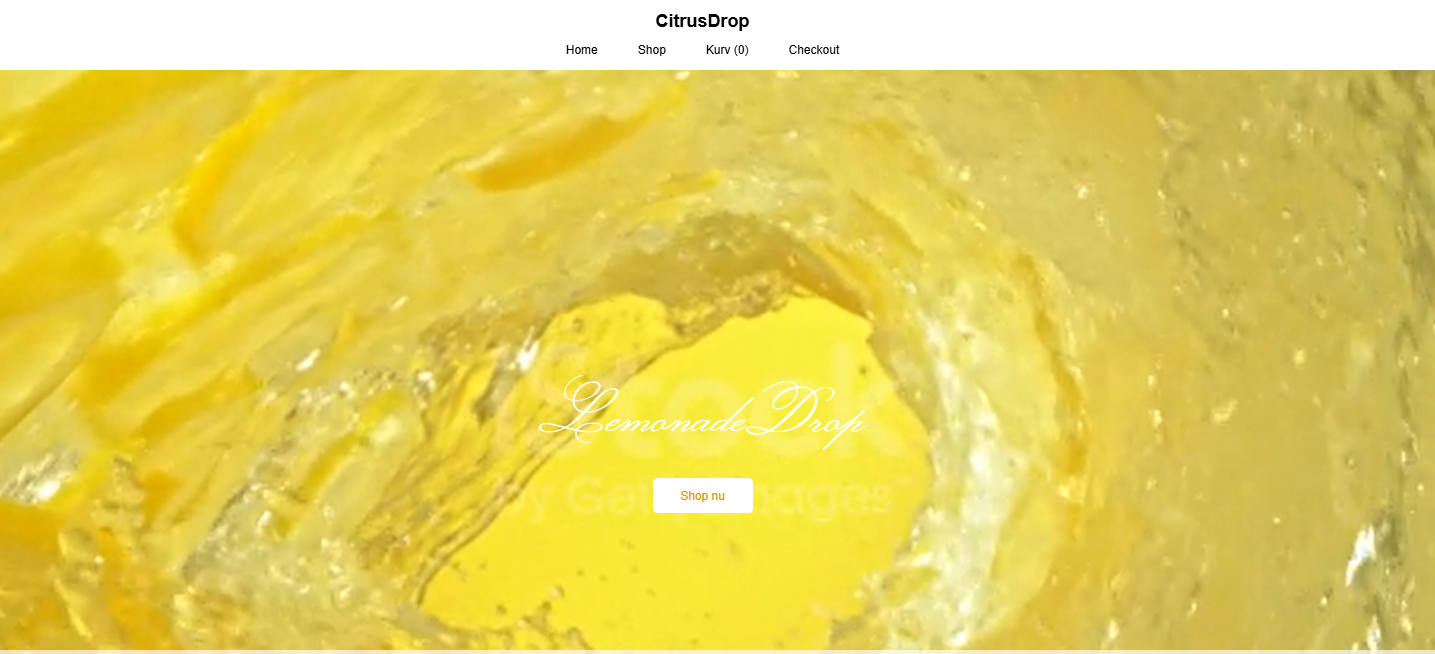
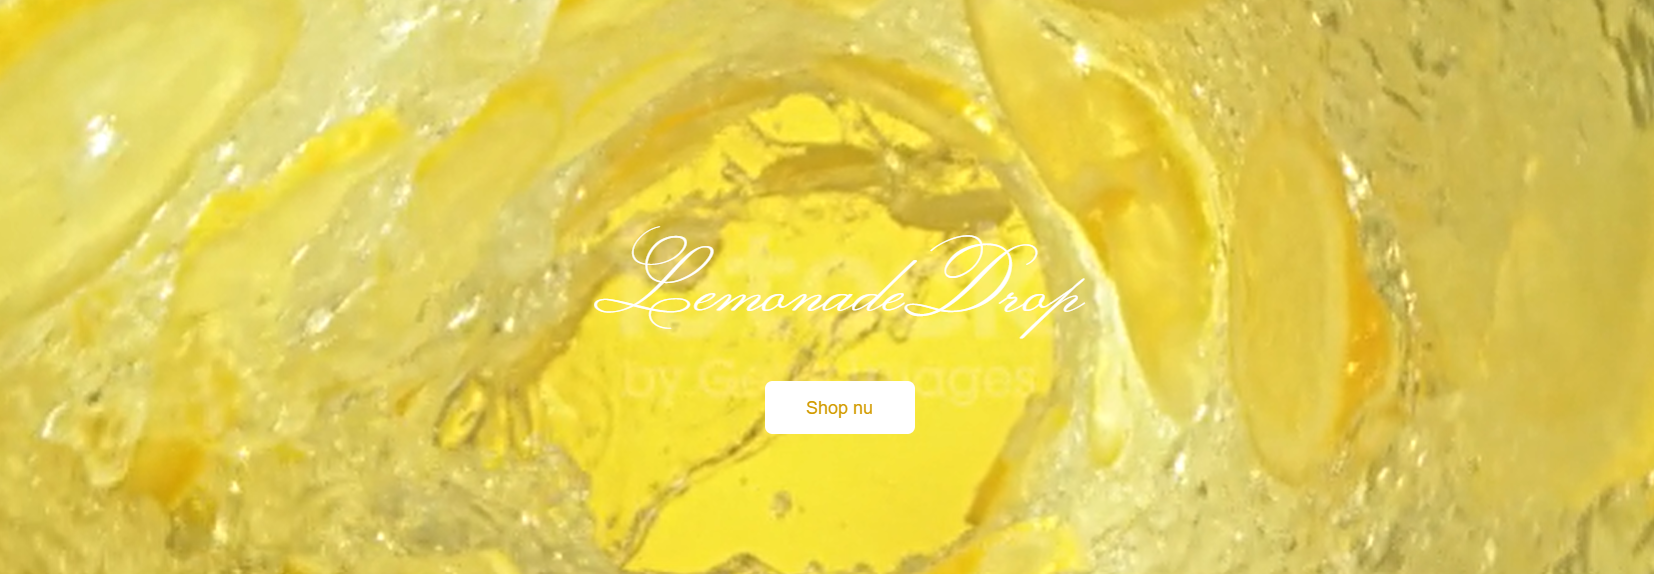
fixed hero-baggrund

diff --git a/index.html b/index.html
@@ -7,33 +7,86 @@
 
     <link rel="stylesheet" href="https://cdn.jsdelivr.net/npm/bootstrap-icons@1.11.3/font/bootstrap-icons.css">
     <link href="https://cdn.jsdelivr.net/npm/bootstrap@5.3.0/dist/css/bootstrap.min.css" rel="stylesheet">
-    <link rel="stylesheet" href="css/custom.css">
     <link rel="stylesheet" href="https://cdnjs.cloudflare.com/ajax/libs/animate.css/4.1.1/animate.min.css" />
+    <link rel="stylesheet" href="css/custom.css">
 
     <style>
-        /* Din styling bevares 100% */
-        .more-text {
-            display: none; /* VIGTIGT: Dette fjerner højden fra start */
-        }
-        
-        .card {
-            border-radius: 0px;
-            transition: all 0.3s ease; /* Gør udvidelsen blødere */
-        }
+      header{
+        z-index: 1;
+      }
+        /* section .lottie {
+  width: 100%;
+  height:100%;
+  background-color: red;
+  z-index: 0;
+  position: absolute;
+  top:-20;
+  padding: 0;
+  margin: 0;
+  overflow-x: hidden;
+display: flex;
+justify-content: center;
+}
+.animation-lottie{
+  width: 150%;
+  margin: 0;
+  padding: 0;
+  position: absolute;
+  
+
+} */
+ .section
+  { z-index: 0;
+  position: relative;
+  overflow: hidden; }
+ .section>div {
+  z-index: 1;
+  justify-content: center;
+}
+.animation-lottie {
+  position: absolute;
+  inset: 0;
+  width: 100%;
+  height: 160%;
+  z-index: 0;
+  pointer-events: none;
+  top:-20%
+}
+#ommig{z-index: 0;
+  position: relative;
+  overflow: hidden;}
+  #ommig>div{
+     z-index: 1;
+  justify-content: center;
+  }
+.animation-lottie-2{
+   position: absolute;
+  inset: 0;
+  width: 100%;
+  height: 140%;
+  z-index: -1;
+  pointer-events: none;
+  top:-30%
+}
+
     </style>
 </head> 
 <body>
     <header class="bg-primary">
         <ul class="nav justify-content-end p-3 ">
-            <li class="nav-item"><a class="nav-link active text-light" href="#">Active</a></li>
             <li class="nav-item"><a class="nav-link text-light" href="index.html#projekter">Projekter</a></li>
+            <li class="nav-item"><a class="nav-link text-light" href="index.html#ommig">om mig</a></li>
+             <li class="nav-item"><a class="nav-link active text-light" href="index.html#kontakt">Kontakt mig</a></li>
             <li class="nav-item"><a class="nav-link text-light" href="https://github.com/sofieroshni"><i class="bi bi-github"></i></a></li>
-            <li class="nav-item"><a class="nav-link text-light" href="#ommig">om mig</a></li>
         </ul>
     </header>
 
     <main>
-        <section class="bg-light pt-5">
+        <section class="bg-light pt-5 hero  ">
+<!-- <iframe  class="test"src="https://lottie.host/embed/e2e6432e-25c6-4590-8484-a61aeda8f9d5/ePERhcIHOK.json"></iframe> -->
+<script src="https://unpkg.com/@lottiefiles/dotlottie-wc@0.9.10/dist/dotlottie-wc.js" type="module"></script>
+<dotlottie-wc src="https://lottie.host/b93a756d-257d-451a-ae9c-44cb5e831901/23Vjh6sTP9.lottie"  speed="0.5" autoplay loop class="animation-lottie "></dotlottie-wc>
+          </div>
             <div class="container text-center">
                 <div class="row align-items-center flex-column-reverse flex-md-row">         
                     <div class="col-md-6 text-center text-lg-start text-dark">
@@ -88,6 +141,7 @@
 
                     <!-- Projekt 3 -->
                     <div class="col-12 col-md-4 col-lg-3">
+                        <a href="https://lemonade-app-vercel.vercel.app//">
                         <div class="card bg-light shadow-sm">
                             <img src="assets/img/lemonadeapp.png" class="card-img-top img-fluid" alt="...">
                             <div class="card-body">
@@ -96,8 +150,8 @@
                                     Udviklet som en teknisk øvelse i Redux state management...<span class="dots">...</span><span class="more-text"> Fokus lå på React-logik og state-håndtering.</span>
                                 </p>
                                 <button onclick="showMore(this)" class="btn btn-link p-0 text-start fw-bold mb-3" style="text-decoration: none;">Læs mere</button>
-                                <a href="https://lemonade-app-vercel.vercel.app//" class="btn btn-primary btn-sm w-100">Besøg side</a>
                             </div>
+                            </a>
                         </div>
                     </div>
 
@@ -109,6 +163,9 @@
         </section>
              
 <section id="ommig" class="py-5 bg-light py-5 animate__animated  animate__fadeIn animate__slow animate__delay-6s">
+  <script src="https://unpkg.com/@lottiefiles/dotlottie-wc@0.9.10/dist/dotlottie-wc.js" type="module"></script>
+<dotlottie-wc src="https://lottie.host/b93a756d-257d-451a-ae9c-44cb5e831901/23Vjh6sTP9.lottie"  speed="0.5" autoplay loop class="animation-lottie-2 "></dotlottie-wc>
+ 
     <div class="container">
         <div class="row align-items-center g-4">
             <div class="col-lg-5 text-center">
@@ -117,7 +174,7 @@
             </div>
 
             <div class="col-lg-7">
-                <h2 class="mb-3" style="font-weight: 800; color: #38000E;">Om Mig</h2>
+                    <div class="col text-start text-dark"><h2>Om Mig</h2></div>
                 
                 <p class="fs-5 text-dark mb-3" >
                     Jeg er <strong>Sofie Vedel</strong>, en passioneret webudvikler fra Roskilde. 
@@ -135,19 +192,22 @@
                 <div class="mb-4">
                     <h5 class="mb-3 text-dark">Mine fokusområder:</h5>
                     <div class="d-flex flex-wrap gap-2">
-                        <span class="badge bg-secondary fs-6 px-3 py-2">React & Next.js</span>
+                        <span class="badge bg-white text-dark fs-6 px-3 py-2">React & Next.js</span>
+                        <span class="badge bg-secondary fs-6 px-3 py-2">Lootie animation</span>
+
                         <span class="badge bg-secondary fs-6 px-3 py-2">WordPress</span>
                         <span class="badge bg-secondary fs-6 px-3 py-2">PHP & Laravel</span>
                         <span class="badge bg-secondary fs-6 px-3 py-2">UI/UX Design</span>
                         <span class="badge bg-secondary fs-6 px-3 py-2">SEO Optimering</span>
                     </div>
                 </div>
+             
 
                 <!-- Call to action -->
                 <div class="d-flex gap-3 flex-wrap">
-                    <a href="mailto:sofie.roshni@gmail.com" class="btn btn-primary btn-lg">
+                    <!-- <a href="mailto:sofie.roshni@gmail.com" class="btn btn-primary btn-lg">
                         <i class="bi bi-envelope"></i> Kontakt Mig
-                    </a>
+                    </a> -->
                     <a href="https://github.com/sofieroshni" class="btn btn-outline-primary btn-lg">
                         <i class="bi bi-github"></i> GitHub
                     </a>
@@ -172,29 +232,21 @@
         </div>
     </div>
 </section>
-        <section id="projekter" class="py-5 animate__animated animate__fadeIn animate__slow animate__delay-5s">
+       <section id="projekter" class="py-5 animate__animated animate__fadeIn animate__slow animate__delay-5s align-center">
 
-          <form>
-  <div class="form-group">
+<form class="col-12 d-flex flex-column align-items-center">
+  <div class="form-group col-4 text-start">
     <label for="exampleFormControlInput1">Email address</label>
     <input type="email" class="form-control" id="exampleFormControlInput1" placeholder="name@example.com">
-  </div>
-  <div class="form-group">
-    <label for="exampleFormControlSelect1">Example select</label>
-    <select class="form-control" id="exampleFormControlSelect1">
-      <option>1</option>
-      <option>2</option>
-      <option>3</option>
-      <option>4</option>
-      <option>5</option>
-    </select>
-  </div>
-  
-  <div class="form-group">
+  </div>  
+  <div class="form-group col-4 text-start">
     <label for="exampleFormControlTextarea1">Example textarea</label>
     <textarea class="form-control" id="exampleFormControlTextarea1" rows="3"></textarea>
   </div>
-</form>
+  <button class="btn btn-secondary mb-4 animate__animated animate__fadeInUp animate__slow animate__delay-3s">Se projekter</button>
+</form> 
+</div>
+         
 </section>
     </main>
 

diff --git a/scss/custom.scss b/scss/custom.scss
@@ -2,13 +2,12 @@
 $primary: #38000E;
 $secondary: #6A0019;
 $light:#D9D9D9;
-
 $body-bg: #38000E;
 $body-color: #ffffff;
 $font-family-sans-serif: 'Inter', system-ui, -apple-system, "Segoe UI", sans-serif;
 
 @import "../node_modules/bootstrap/scss/bootstrap";
-.p {
+p {
     font-size: 12px;
 }
 .nav-link {
@@ -26,4 +25,25 @@ a:hover {
 }
 .card>img{
 height: 100px;
+}
+
+.lottie{
+    width: 100px;
+    height: 100px;
+    background-color: red!important;
+}
+
+
+/* Din styling bevares 100% */
+        .more-text {
+            display: none; /* VIGTIGT: Dette fjerner højden fra start */
+        }
+        
+        .card {
+            border-radius: 0px;
+            transition: all 0.5s ease; 
+        }
+       .card:hover {
+    transform: scale(1.02);
+    box-shadow: 0 10px 20px rgba(0,0,0,0.2);
 }
